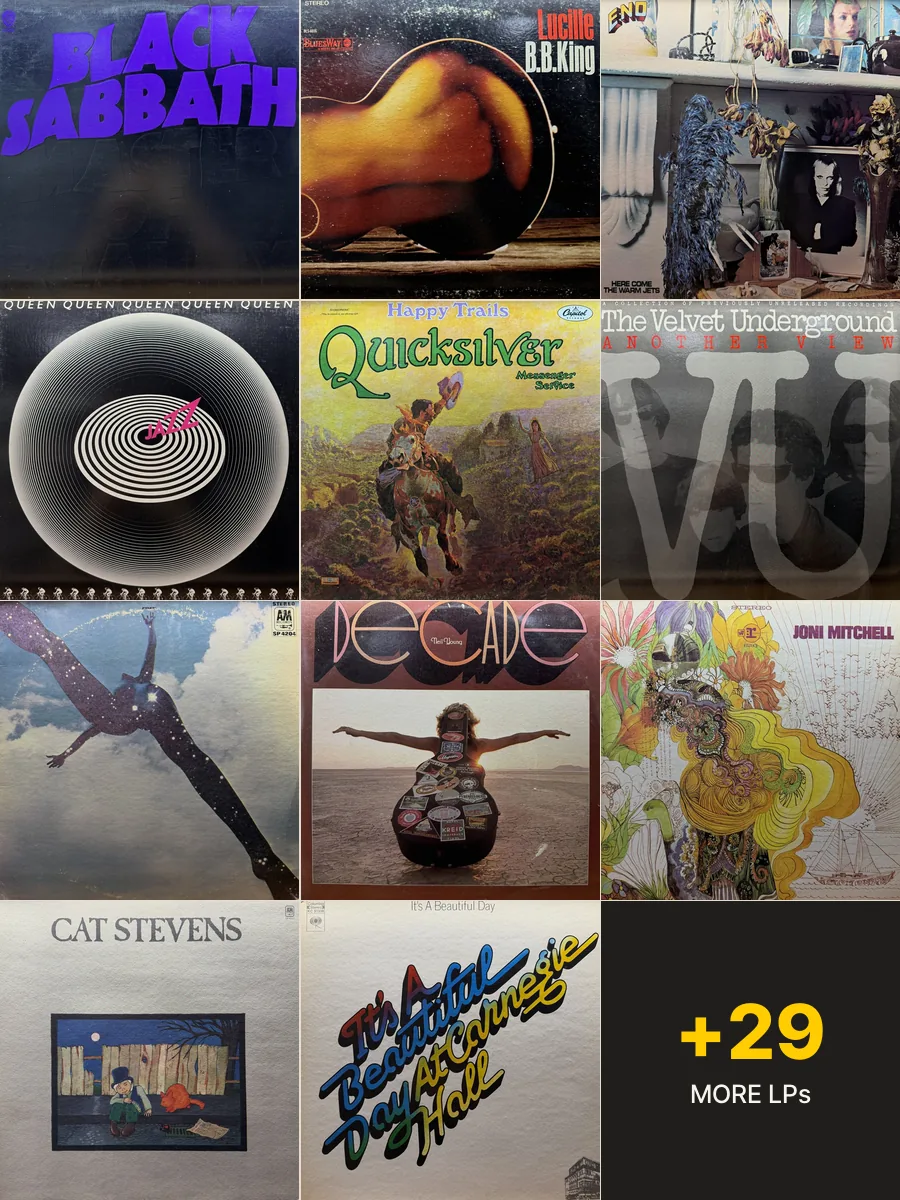
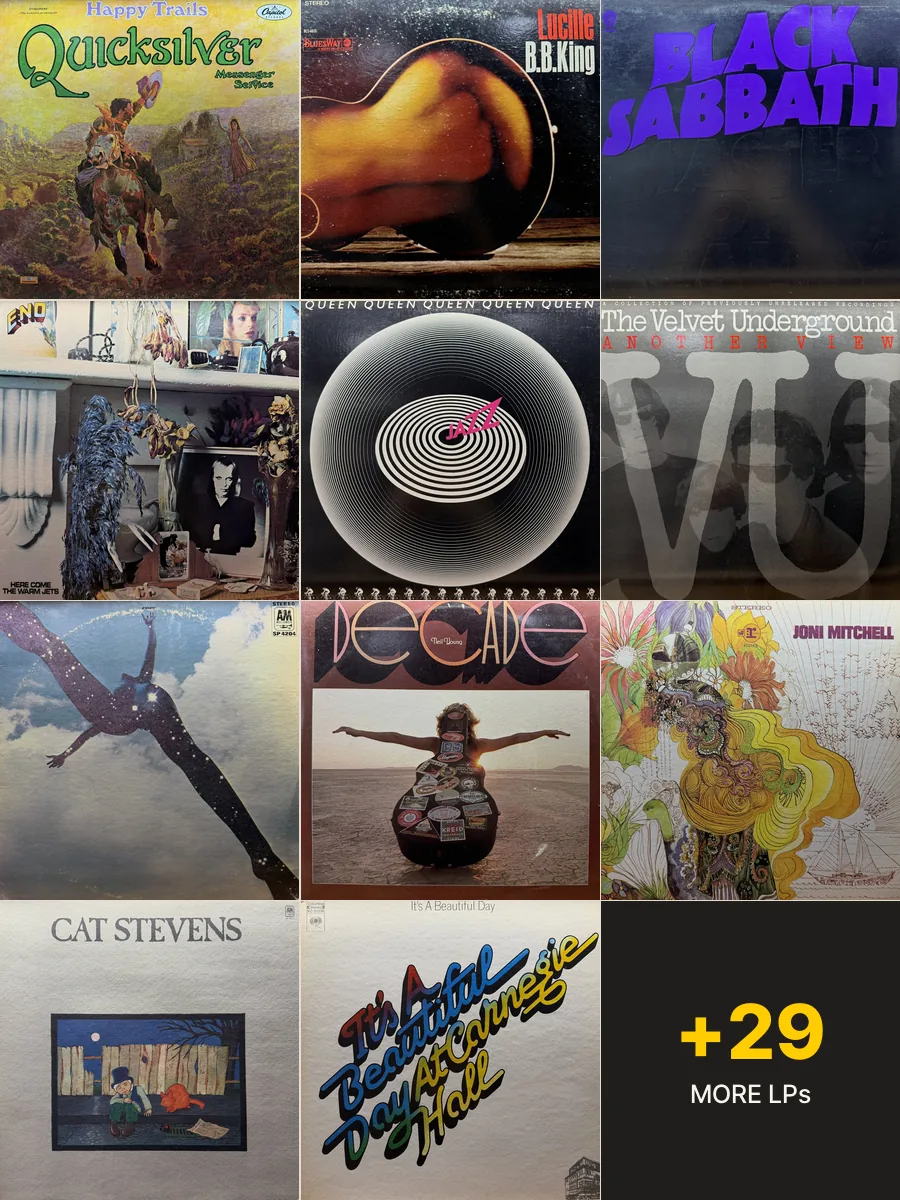
landing: deploy (t1-auto)

Changed region(s): [[0.0, 0.0, 1.0, 0.5242]]

diff --git a/update/2026-07-10/index.html b/update/2026-07-10/index.html
@@ -5,19 +5,19 @@
 <meta name="viewport" content="width=device-width, initial-scale=1.0">
 <script src="/assets/cv-analytics.js"></script>
 <title>온라인 업데이트 2026.07.10 — 팝·록 마흔 장 | 코디드바이닐즈 CODEDVINYLS</title>
-<meta name="description" content="2026년 7월 10일 스마트스토어 온라인 업데이트 — 팝·록 마흔 장. 1960년대 말에서 1970년대 초 미국 사이키델릭 록과 포크 록을 중심으로, 블랙 사바스 Master Of Reality 1971년 미국 초반과 비비 킹 Lucille, 프리 Free 1969년 미국 초반, 브라이언 이노 Here Come The Warm Jets, 퀸 Jazz까지. 초반과 리이슈가 섞여 있어, 라벨 표기와 레이블 디자인을 근거로 어떤 판인지 상품 설명에 정직하게 적었습니다. 자켓을 누르면 상품 페이지로 이어집니다.">
+<meta name="description" content="2026년 7월 10일 온라인 업데이트 — 팝·록 마흔 장. 1960년대 말에서 1970년대 초, 미국의 사이키델릭 록과 포크 록이 중심입니다. 블랙 사바스 Master Of Reality, 비비 킹 Lucille, 브라이언 이노 Here Come The Warm Jets, 퀵실버 메신저 서비스 Happy Trails까지. 판본과 상태는 각 상품 페이지에 적어 두었습니다. 자켓을 누르면 상품 페이지로 이어집니다.">
 <link rel="stylesheet" href="/assets/cv-nav.css">
 <link rel="canonical" href="https://codedvinyls.com/update/2026-07-10/">
 <meta property="og:type" content="website">
 <meta property="og:site_name" content="코디드바이닐즈">
 <meta property="og:locale" content="ko_KR">
 <meta property="og:title" content="온라인 업데이트 2026.07.10 — 팝·록 마흔 장 | 코디드바이닐즈">
-<meta property="og:description" content="7월 10일 스마트스토어에 올린 팝·록 마흔 장. 60년대 말 미국 사이키델릭·포크 록부터 블랙 사바스·비비 킹의 블루스와 하드 록까지 — 자켓을 누르면 상품 페이지로 이어집니다.">
+<meta property="og:description" content="7월 10일 온라인 업데이트, 팝·록 마흔 장. 1960년대 말 미국 사이키델릭·포크 록을 중심으로 블랙 사바스, 비비 킹, 브라이언 이노까지 — 자켓을 누르면 상품 페이지로 이어집니다.">
 <meta property="og:url" content="https://codedvinyls.com/update/2026-07-10/">
-<meta property="og:image" content="https://codedvinyls.com/assets/online/op-260710-poprock-03.jpg">
+<meta property="og:image" content="https://codedvinyls.com/assets/online/op-260710-poprock-06.jpg">
 <meta name="twitter:card" content="summary_large_image">
 <script type="application/ld+json">
-{"@context": "https://schema.org", "@type": "CollectionPage", "name": "온라인 업데이트 2026.07.10 — 팝·록 마흔 장", "description": "2026년 7월 10일 스마트스토어 온라인 업데이트 — 팝·록 마흔 장. 1960년대 말에서 1970년대 초 미국 사이키델릭 록과 포크 록을 중심으로, 블랙 사바스 Master Of Reality 1971년 미국 초반과 비비 킹 Lucille, 프리 Free 1969년 미국 초반, 브라이언 이노 Here Come The Warm Jets, 퀸 Jazz까지. 초반과 리이슈가 섞여 있어, 라벨 표기와 레이블 디자인을 근거로 어떤 판인지 상품 설명에 정직하게 적었습니다. 자켓을 누르면 상품 페이지로 이어집니다.", "url": "https://codedvinyls.com/update/2026-07-10/", "inLanguage": "ko", "isPartOf": {"@type": "WebSite", "name": "코디드바이닐즈", "url": "https://codedvinyls.com/"}}
+{"@context": "https://schema.org", "@type": "CollectionPage", "name": "온라인 업데이트 2026.07.10 — 팝·록 마흔 장", "description": "2026년 7월 10일 온라인 업데이트 — 팝·록 마흔 장. 1960년대 말에서 1970년대 초, 미국의 사이키델릭 록과 포크 록이 중심입니다. 블랙 사바스 Master Of Reality, 비비 킹 Lucille, 브라이언 이노 Here Come The Warm Jets, 퀵실버 메신저 서비스 Happy Trails까지. 판본과 상태는 각 상품 페이지에 적어 두었습니다. 자켓을 누르면 상품 페이지로 이어집니다.", "url": "https://codedvinyls.com/update/2026-07-10/", "inLanguage": "ko", "isPartOf": {"@type": "WebSite", "name": "코디드바이닐즈", "url": "https://codedvinyls.com/"}}
 </script>
 <script type="application/ld+json">
 {"@context": "https://schema.org", "@type": "BreadcrumbList", "itemListElement": [{"@type": "ListItem", "position": 1, "name": "코디드바이닐즈", "item": "https://codedvinyls.com/"}, {"@type": "ListItem", "position": 2, "name": "온라인 업데이트", "item": "https://codedvinyls.com/update/"}, {"@type": "ListItem", "position": 3, "name": "온라인 업데이트 2026.07.10"}]}
@@ -189,8 +189,8 @@ footer{background:var(--ink);color:var(--paper)}
     <div class="art-hero">
       <div class="wrap">
         <div class="kicker"><span class="on">ONLINE UPDATE</span><span>2026.07.10 · 스마트스토어</span></div>
-        <h1>팝·록 마흔 장,<br>초판이 서른 장</h1>
-        <p class="dek">이번 업데이트는 처음부터 끝까지 팝·록입니다. 무더기의 중심은 1960년대 말에서 1970년대 초 미국의 사이키델릭 록과 포크 록입니다 — 퀵실버 메신저 서비스(Quicksilver Messenger Service)의 〈Happy Trails〉, 벨벳 언더그라운드(The Velvet Underground)의 미공개 녹음 모음 〈Another View〉가 그 자리에 있습니다. 블루스와 하드 록이 위를 받칩니다 — 블랙 사바스(Black Sabbath)의 〈Master Of Reality〉는 센터 레이블에 'MASTER OF REALITY'로 표기된 1971년 미국 초반이고, 비비 킹(B.B. King)의 〈Lucille〉이 함께 듭니다. 초반과 리이슈가 섞여 있어, 어떤 판인지는 라벨 표기와 레이블 디자인을, 매트릭스나 공장 각인이 있는 경우 그 근거까지 확인해 상품 설명에 적어 두었습니다.</p>
+        <h1>대부분 처음 찍힌 판<br>1960년대 끝 미국 록</h1>
+        <p class="dek">이번 업데이트는 처음부터 끝까지 팝·록입니다. 중심은 1960년대 말에서 1970년대 초, 미국의 사이키델릭 록과 포크 록입니다. 블루스와 하드 록이 그 위를 받칩니다. 블랙 사바스(Black Sabbath)의 무거운 세 번째 앨범, 비비 킹(B.B. King)이 자기 기타에 이름을 붙인 블루스가 여기 듭니다. 판본과 상태는 각 상품 페이지에 적어 두었습니다.</p>
       </div>
     </div>
 
@@ -200,7 +200,7 @@ footer{background:var(--ink);color:var(--paper)}
       <div class="group-head">
         <h2><span class="display">POP / ROCK</span> <span class="group-kr">팝·록</span></h2>
       </div>
-      <p class="group-lead">팝·록 마흔 장의 중심은 1960년대 말에서 1970년대 초 미국의 사이키델릭 록과 포크 록입니다. 퀵실버 메신저 서비스(Quicksilver Messenger Service)의 〈Happy Trails〉, 잇츠 어 뷰티풀 데이(It's A Beautiful Day)의 카네기 홀 실황 〈At Carnegie Hall〉이 그 갈래에 듭니다. 포크 쪽으로는 닐 영(Neil Young)의 3LP 회고집 〈Decade〉와 조니 미첼(Joni Mitchell)의 데뷔작 〈Song To A Seagull〉, 캣 스티븐스(Cat Stevens)의 〈Teaser And The Firecat〉이 있습니다. 블루스와 하드 록이 위를 받칩니다 — 블랙 사바스(Black Sabbath)의 〈Master Of Reality〉와 비비 킹(B.B. King)의 〈Lucille〉이 여기 듭니다. 폴 로저스(Paul Rodgers)와 폴 코소프(Paul Kossoff)의 프리(Free) 셀프타이틀 〈Free〉는 1969년 미국 초반이고, 새보이 브라운(Savoy Brown)의 〈Shake Down〉은 1967년 데뷔작을 1970년경 다시 찍은 영국 리이슈입니다. 여기에 브라이언 이노(Brian Eno)의 첫 솔로작 〈Here Come The Warm Jets〉와 벨벳 언더그라운드(The Velvet Underground)의 미공개 녹음 모음 〈Another View〉가 아트 록 쪽 결을 더합니다.</p>
+      <p class="group-lead">팝·록 마흔 장의 중심은 1960년대 말에서 1970년대 초, 미국의 사이키델릭 록과 포크 록입니다. 퀵실버 메신저 서비스(Quicksilver Messenger Service)의 〈Happy Trails〉는 A면 전체가 필모어 무대의 라이브로 이어집니다. 포크 쪽에는 닐 영(Neil Young)의 3LP 회고집 〈Decade〉, 조니 미첼(Joni Mitchell)의 데뷔작 〈Song To A Seagull〉, 캣 스티븐스(Cat Stevens)의 〈Teaser And The Firecat〉이 있습니다. 블루스와 하드 록은 블랙 사바스(Black Sabbath)의 〈Master Of Reality〉와 비비 킹(B.B. King)의 〈Lucille〉이 받칩니다. 브라이언 이노(Brian Eno)의 첫 솔로작 〈Here Come The Warm Jets〉와 벨벳 언더그라운드(The Velvet Underground)의 미공개 녹음 모음 〈Another View〉가 아트 록의 결을 더합니다.</p>
       <div class="rec-grid">
       <a class="rec" href="https://smartstore.naver.com/codedvinyls/products/13657679855" target="_blank" rel="noopener" aria-label="The Velvet Underground — Another View, 스마트스토어에서 보기">
         <div class="rec-cover"><img src="/assets/online/op-260710-poprock-01.jpg" alt="The Velvet Underground 〈Another View〉 자켓" loading="lazy" width="1040" height="1040"></div>

diff --git a/update/index.html b/update/index.html
@@ -136,11 +136,11 @@ footer{background:var(--ink);color:var(--paper)}
     <section class="update-list" aria-label="온라인 업데이트 회차">
       
       <a class="update-card" href="/update/2026-07-10/">
-        <div class="update-cover"><img src="/assets/online/op-260710-poprock-03.jpg" alt="온라인 업데이트 2026.07.10 — 팝·록 마흔 장" loading="lazy"></div>
+        <div class="update-cover"><img src="/assets/online/op-260710-poprock-06.jpg" alt="온라인 업데이트 2026.07.10 — 팝·록 마흔 장" loading="lazy"></div>
         <div class="update-body">
           <span class="update-date">ONLINE UPDATE · 2026.07.10</span>
           <h2>온라인 업데이트 2026.07.10 — 팝·록 마흔 장</h2>
-          <p>2026년 7월 10일 스마트스토어 온라인 업데이트 — 팝·록 마흔 장. 1960년대 말에서 1970년대 초 미국 사이키델릭 록과 포크 록을 중심으로, 블랙 사바스 Master Of Reality 1971년 미국 초반과 비비 킹 Lucille, 프리 Free 1969년 미국 초반, 브라이언 이노 Here Come The Warm Jets, 퀸 Jazz까지. 초반과 리이슈가 섞여 있어, 라벨 표기와 레이블 디자인을 근거로 어떤 판인지 상품 설명에 정직하게 적었습니다. 자켓을 누르면 상품 페이지로 이어집니다.</p>
+          <p>2026년 7월 10일 온라인 업데이트 — 팝·록 마흔 장. 1960년대 말에서 1970년대 초, 미국의 사이키델릭 록과 포크 록이 중심입니다. 블랙 사바스 Master Of Reality, 비비 킹 Lucille, 브라이언 이노 Here Come The Warm Jets, 퀵실버 메신저 서비스 Happy Trails까지. 판본과 상태는 각 상품 페이지에 적어 두었습니다. 자켓을 누르면 상품 페이지로 이어집니다.</p>
           <span class="update-go">회차 보기 →</span>
         </div>
       </a>

diff --git a/index.html b/index.html
@@ -427,8 +427,8 @@ footer{background:var(--ink);color:var(--paper)}
         <a class="feature-card reveal" href="/update/2026-07-10/">
           <img class="thumb" src="assets/newin/newin-online-260710-p01.webp" alt="7월 10일 온라인 업데이트 — 팝·록 마흔 장 자켓 그리드" loading="lazy" width="900" height="1200">
           <span class="kicker">온라인 신보 · 7월 2주차</span>
-          <div class="ft">팝·록 마흔 장,<br>초판이 서른 장</div>
-          <div class="fd">1960년대 말 미국 사이키델릭 록과 포크 록이 중심입니다. 블랙 사바스(Black Sabbath)의 〈Master Of Reality〉와 비비 킹(B.B. King)의 〈Lucille〉이 함께 듭니다.</div>
+          <div class="ft">대부분 처음 찍힌 판<br>1960년대 끝 미국 록</div>
+          <div class="fd">1960년대 말 미국의 사이키델릭 록과 포크 록이 중심입니다. 블랙 사바스(Black Sabbath)의 무거운 세 번째 앨범과 비비 킹(B.B. King)이 기타 이름을 붙인 블루스가 그 위를 받칩니다.</div>
           <span class="link">온라인 업데이트 보기 →</span>
         </a>
       </div>

diff --git a/update/2026-07-08/index.html b/update/2026-07-08/index.html
@@ -901,7 +901,7 @@ footer{background:var(--ink);color:var(--paper)}
           </div>
         </a>
         <a class="pg-cell pg-next" href="/update/2026-07-10/">
-          <div class="pg-cover"><img src="/assets/online/op-260710-poprock-03.jpg" alt="온라인 업데이트 2026.07.10 — 팝·록 마흔 장" loading="lazy"></div>
+          <div class="pg-cover"><img src="/assets/online/op-260710-poprock-06.jpg" alt="온라인 업데이트 2026.07.10 — 팝·록 마흔 장" loading="lazy"></div>
           <div class="pg-text">
             <span class="pg-label">다음 업데이트<span class="pg-arrow">→</span></span>
             <span class="pg-date">2026.07.10</span>
